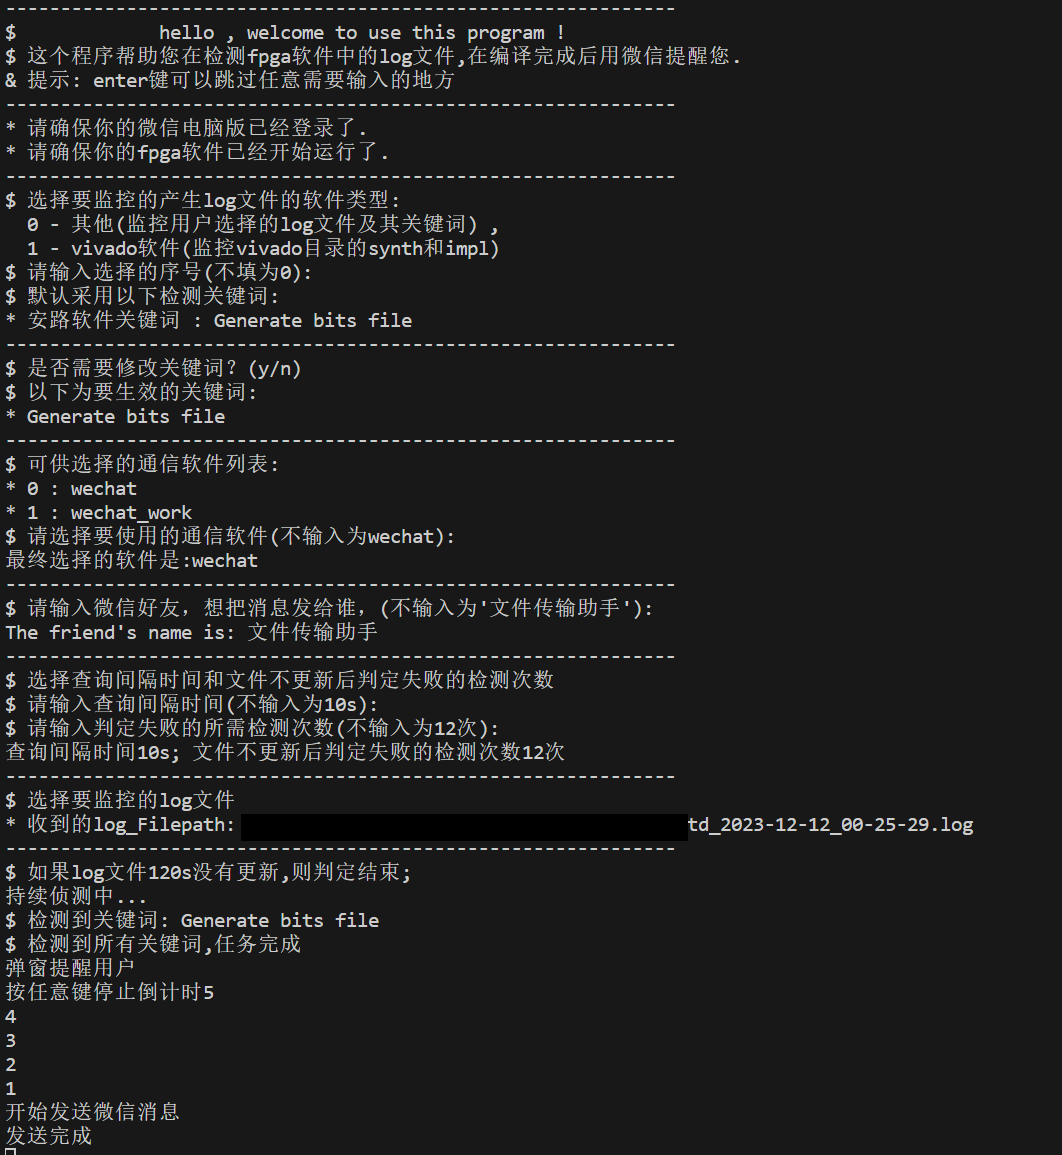
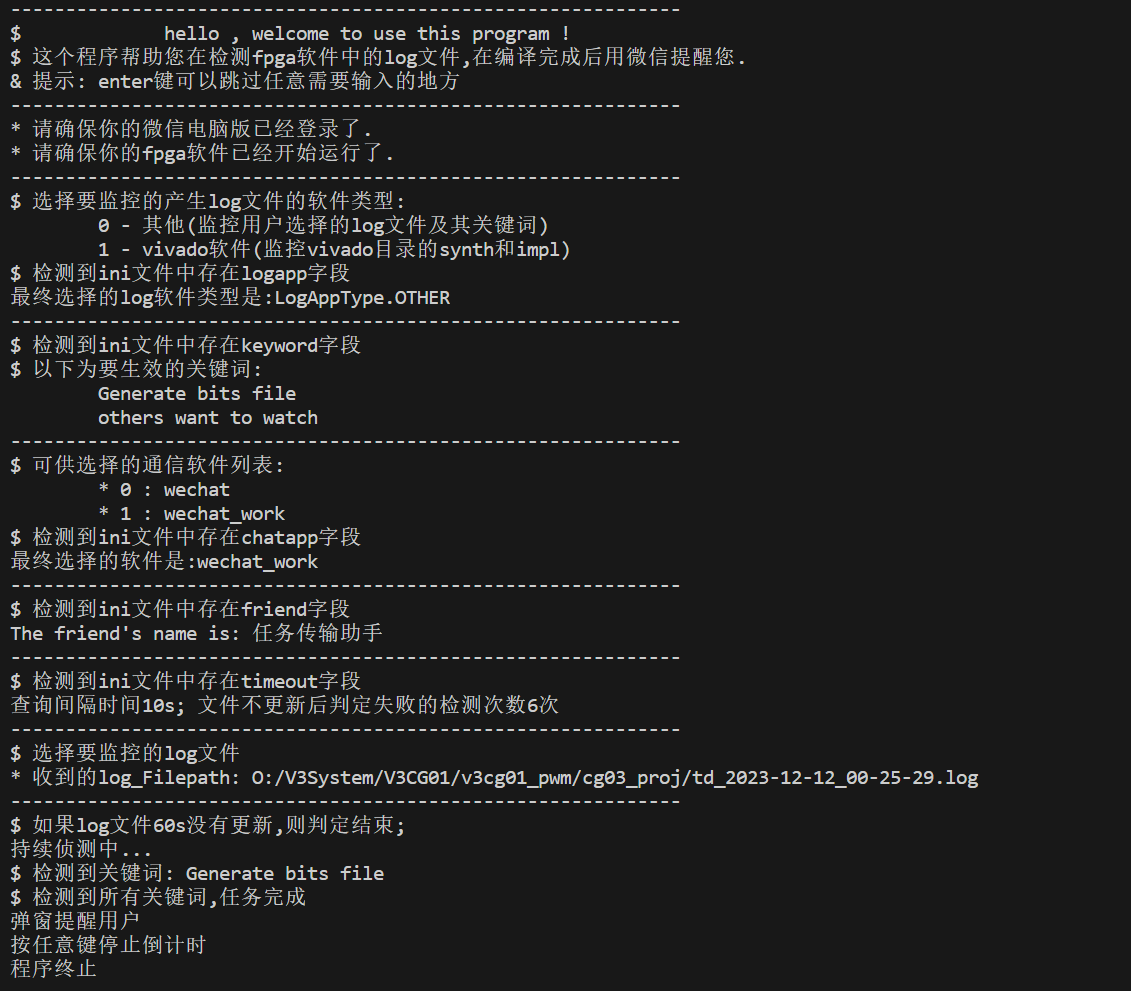
(improvement): 优化提示词和ini支持多个keyword

diff --git a/LogWatcherWithWechat.py b/LogWatcherWithWechat.py
@@ -202,6 +202,7 @@ def say_hello(check_dic , apptype_dic):
     print("-------------------------------------------------------------")
     print("$ 选择要监控的产生log文件的软件类型: \n\t0 - 其他(监控用户选择的log文件及其关键词) \n\t1 - vivado软件(监控vivado目录的synth和impl)")
     if section_name in ini_contents and 'logapp' in ini_contents[section_name]:
+        print("$ 检测到ini文件中存在logapp字段")
         logApp_type = LogAppType(int(ini_contents[section_name]['logapp']))
     else:
         logApp_type = lambda:input_num("$ 请输入软件类型序号(不填为0):")
@@ -210,34 +211,41 @@ def say_hello(check_dic , apptype_dic):
     print("最终选择的log软件类型是:" + str(logApp_type))
 
     if logApp_type == LogAppType.OTHER:
-        print("$ 默认采用以下检测关键词:")
-        for key, value in check_dic.items():
-            print("* " + key + " : " + "\"" + value + "\"")
-            check_strs.append(value)
         print("-------------------------------------------------------------")
-        if section_name in ini_contents and 'keyword' in ini_contents[section_name]:
-            keyword = ini_contents[section_name]['keyword']
-            print("$ 检测到ini文件,以下为要生效的关键词:\n\t" + "\"" + keyword + "\"")
+        if section_name in ini_contents and 'keyword1' in ini_contents[section_name]:
+            print("$ 检测到ini文件中存在keyword字段")
+            check_strs = []
+            # 如果ini文件中有keyword1,keyword2,keyword3等字段
+            for i in range(1, 10):
+                if 'keyword' + str(i) in ini_contents[section_name]:
+                    check_strs.append(ini_contents[section_name]['keyword' + str(i)])
+                else:
+                    break
         else:
+            print("$ 默认采用以下检测关键词:")
+            for key, value in check_dic.items():
+                print("* " + key + " : " + "\"" + value + "\"")
+                check_strs.append(value)
             if input("$ 是否需要修改关键词？(y/n)") == "y":
-                check_strs = []
-                while True:
-                    value = input("$ 请输入检测关键词(输入q退出):")
-                    if value in ["q", ""]:
-                        break
-                    check_strs.append(value)
+                    check_strs = []
+                    while True:
+                        value = input("$ 请输入检测关键词(输入q退出):")
+                        if value in ["q", ""]:
+                            break
+                        check_strs.append(value)
             
-            print("$ 以下为要生效的关键词:")
-            for check_str in check_strs:
-                print("* " + check_str)
+        print("$ 以下为要生效的关键词:")
+        for check_str in check_strs:
+            print("\t" + check_str)
 
     print("-------------------------------------------------------------")
     print("$ 可供选择的通信软件列表:")
     for key, value in apptype_dic.items():
         print("\t* " + key + " : " + value)
     
-    if section_name in ini_contents and 'apptype' in ini_contents[section_name]:
-        key_input = ini_contents[section_name]['apptype']
+    if section_name in ini_contents and 'chatapp' in ini_contents[section_name]:
+        print("$ 检测到ini文件中存在chatapp字段")
+        key_input = ini_contents[section_name]['chatapp']
     else:
         key_input = input("$ 请选择要使用的通信软件(不输入为wechat):")
     
@@ -247,6 +255,7 @@ def say_hello(check_dic , apptype_dic):
     print("最终选择的软件是:" + apptype_dic[key_input])
     print("-------------------------------------------------------------")
     if section_name in ini_contents and 'friend' in ini_contents[section_name]:
+        print("$ 检测到ini文件中存在friend字段")
         friend_name = ini_contents[section_name]['friend']
     else:
         friend_name = input("$ 请输入微信好友，想把消息发给谁，(不输入为'文件传输助手'):")
@@ -258,6 +267,7 @@ def say_hello(check_dic , apptype_dic):
     dft_interval_sec = 10
     dft_timeout_cnt = 12
     if section_name in ini_contents and 'timeout' in ini_contents[section_name]:
+        print("$ 检测到ini文件中存在timeout字段")
         interval_sec = dft_interval_sec
         timeout_cnt = int(ini_contents[section_name]['timeout'])
     else:

diff --git a/readme.md b/readme.md
@@ -13,13 +13,15 @@
 # "info.ini"文件格式
 > 1. 文件编码gb2312
 > 2. 支持部分参数输入，没有输入的参数命令行提示输入
+> 3. keyword最多10个
 ```ini
 [info]
-logapp = 0	
-apptype = 0 
+logapp = 0
+chatapp = 1
 friend = 任务传输助手
 timeout = 6
-keyword = Generate bits file
+keyword1 = Generate bits file
+keyword2 = others want to watch
 ```
 
 ## 软件使用流程图
